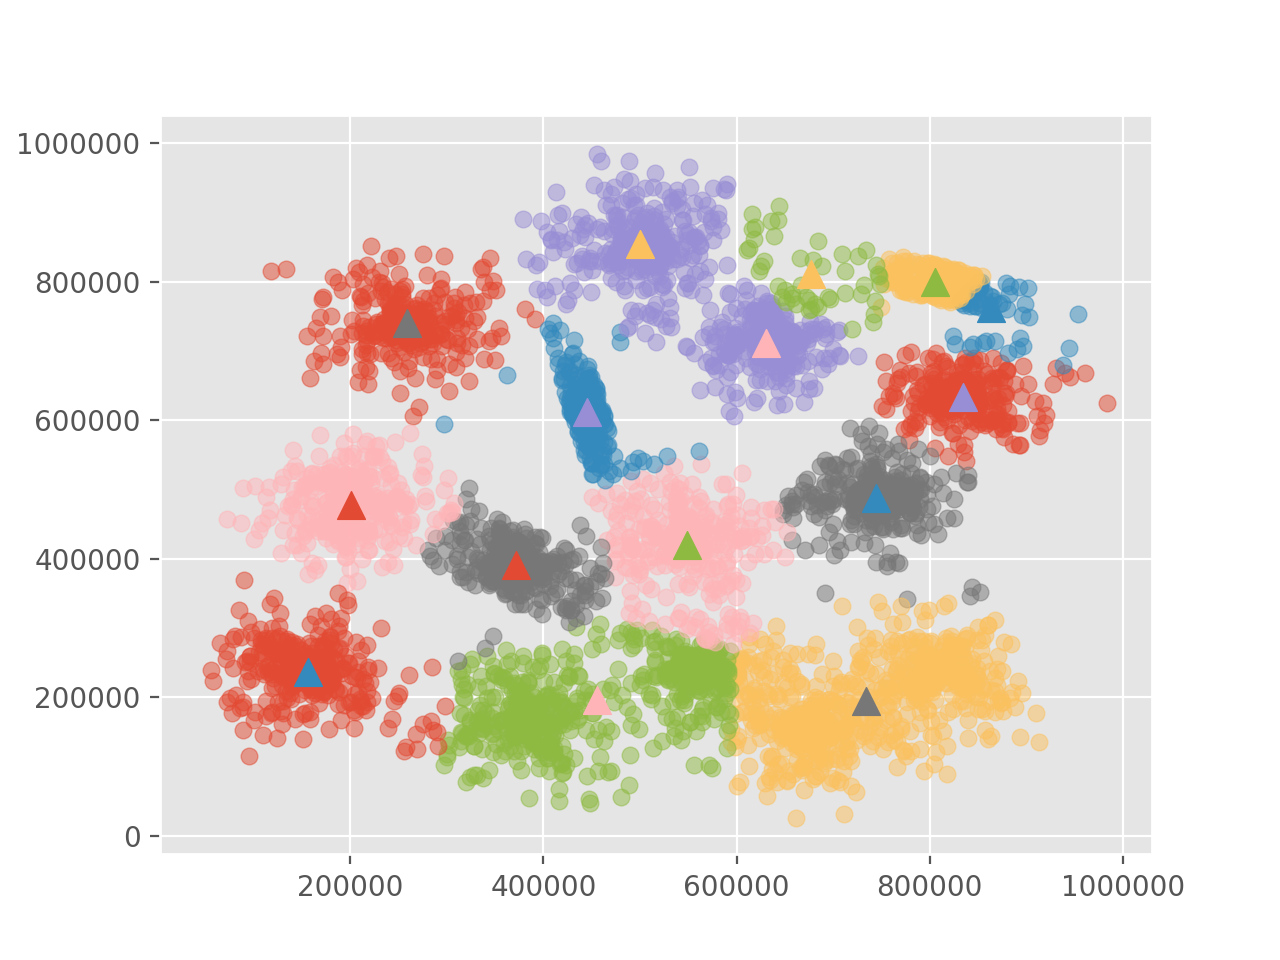
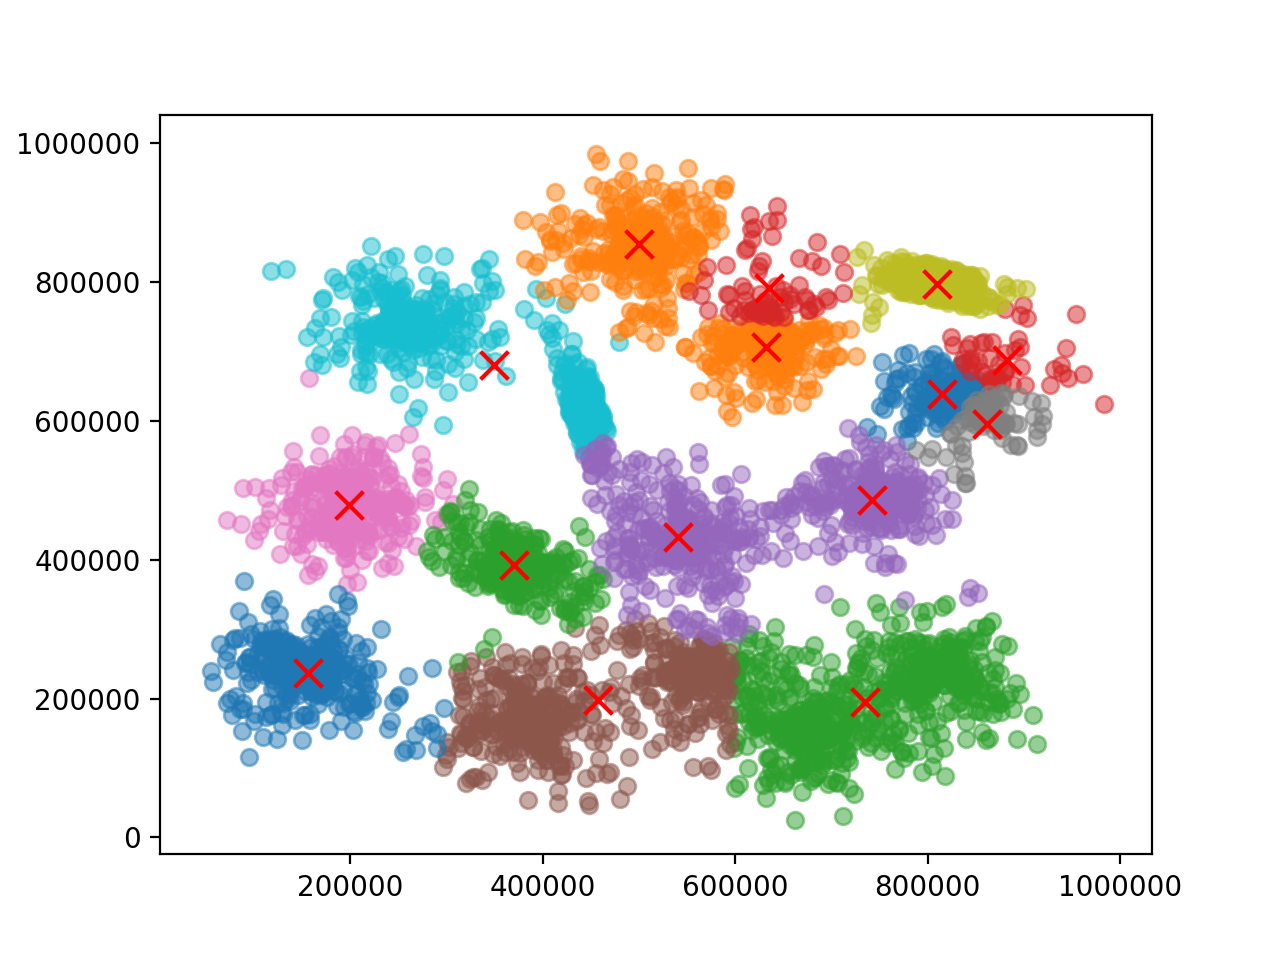
generalized get_distance func to use two args instead of one arg + self, add kmedoids numpy

diff --git a/k_means_numpy.py b/k_means_numpy.py
@@ -42,7 +42,7 @@ class KMeans:
         self.centroids = centroids[:self.k]
         return self
 
-    def get_distance(self, data: np.ndarray) -> np.ndarray:
+    def get_distance(self, centroids: np.ndarray, data: np.ndarray) -> np.ndarray:
         """
         Calculate a distance matrix, `S`, for two arrays so that  `s_ij` = d_ij` represents
         either the Euclidean or Manhattan distance from point `x_i` to centroid_j.
@@ -54,14 +54,14 @@ class KMeans:
         cluster columns.
         """
         choose_method = {'euclidean': 2, 'manhattan': 1}
-        dist = np.zeros((data.shape[0], self.centroids.shape[0]))
-        for centroid in range(self.centroids.shape[0]):
+        dist = np.zeros((data.shape[0], centroids.shape[0]))
+        for centroid in range(centroids.shape[0]):
             for point in range(data.shape[0]):
-                dist[point, centroid] = np.linalg.norm(data[point, :] - self.centroids[centroid, :],
+                dist[point, centroid] = np.linalg.norm(data[point, :] - centroids[centroid, :],
                                                        ord=choose_method[self.method])
         return dist
 
-    def get_distance_vec(self, data: np.ndarray) -> np.ndarray:
+    def get_distance_vec(self, centroids: np.ndarray, data: np.ndarray) -> np.ndarray:
         """
         Calculate a distance matrix, `S`, for two arrays so that  `s_ij` = d_ij` represents
         either the Euclidean or Manhattan distance from point `x_i` to centroid_j.
@@ -77,8 +77,8 @@ class KMeans:
         allowing for for mathematical operations that reduce the number of matrix dims.
         """
         if self.method == 'manhattan':
-            return np.abs(self.centroids - data[:, np.newaxis, :]).sum(axis=2)
-        return np.sqrt(((self.centroids - data[:, np.newaxis, :]) ** 2).sum(axis=2))
+            return np.abs(centroids - data[:, np.newaxis, :]).sum(axis=2)
+        return np.sqrt(((centroids - data[:, np.newaxis, :]) ** 2).sum(axis=2))
 
     def assign_cluster(self, data: np.ndarray) -> "KMeans":
         """
@@ -88,7 +88,7 @@ class KMeans:
         The `np.argmin()` function will select minimum distance across columns, assigning it to
         cluster=column-index.
         """
-        self.clusters = np.argmin(self.get_distance(data), axis=1)
+        self.clusters = np.argmin(self.get_distance(self.centroids, data), axis=1)
         return self
 
     def assign_cluster_vec(self, data: np.ndarray) -> "KMeans":
@@ -99,7 +99,7 @@ class KMeans:
         The `np.argmin()` function will select minimum distance across columns, assigning it to
         cluster=column-index.
         """
-        self.clusters = np.argmin(self.get_distance_vec(data), axis=1)
+        self.clusters = np.argmin(self.get_distance_vec(self.centroids, data), axis=1)
         return self
 
     def update_centroids(self, data: np.ndarray) -> Tuple[np.ndarray, np.ndarray]:
@@ -115,7 +115,7 @@ class KMeans:
         new_centroids = self.centroids.copy()
         return old_centroids, new_centroids
 
-    def within_cluster(self, data):
+    def within_cluster(self, centroids: np.ndarray, data: np.ndarray) -> float:
         """
         Calculates within cluster sum of distances using a distance matrix as described in
         the `get_distance_vec()` method.
@@ -131,9 +131,9 @@ class KMeans:
 
         Then WCSS(S) == 0.2 + 0.1 + 0.2 == 0.5.
         """
-        return sum(np.amin(self.get_distance_vec(data), axis=1))
+        return sum(np.amin(self.get_distance_vec(centroids, data), axis=1))
 
-    def meets_tolerance(self, old_centroids, new_centroids):
+    def meets_tolerance(self, old_centroids: np.ndarray, new_centroids: np.ndarray) -> bool:
         """Function to detect convergence"""
         return np.linalg.norm(old_centroids - new_centroids) <= self.tol
 
@@ -154,12 +154,12 @@ class KMeans:
             self.assign_cluster_vec(data)
             old_centroids, new_centroids = self.update_centroids(data)
             if self.meets_tolerance(old_centroids, new_centroids):
-                self.wcss = self.within_cluster(data)
+                self.wcss = self.within_cluster(self.centroids, data)
                 self.assignments = np.append(self.clusters.reshape(-1, 1), data, axis=1)
                 print(f'Converged in {i-1} iterations.  WCSS: {self.wcss}')
                 break
             if verbose:
-                print(f'Iteration: {i}, WCSS: {self.within_cluster(data)}')
+                print(f'Iteration: {i}, WCSS: {self.within_cluster(self.centroids, data)}')
             i += 1
         return self
 

diff --git a/k_medoids_numpy.py b/k_medoids_numpy.py
@@ -1,0 +1,60 @@
+"""
+A Numpy K-Medoids implementation
+
+Methodology for the K-Medoids algorithm:
+
+    Choose value for K
+    Randomly select K featuresets to start as your centroids
+    Calculate distance of all other featuresets to centroids
+    Classify other featuresets as same as closest centroid
+    Determine point within centroid that minimizes within-cluster distance function, making that
+    the new centroid
+    Repeat steps 3-5 until optimized (centroids no longer moving)
+"""
+from typing import Tuple
+
+import matplotlib.pyplot as plt
+import numpy as np
+
+from k_means.make_clusters import SAMPLE_DATA
+from k_means.k_means_numpy import KMeans
+
+
+class KMedoids(KMeans):
+    def __init__(self, k: int = 2, tol: float = 0.001, max_iter: int = 300,
+                 method: str = 'euclidean'):
+        super().__init__(k, tol, max_iter, method)
+
+    def update_centroids(self, data: np.ndarray) -> Tuple[np.ndarray, np.ndarray]:
+        old_centroids = self.centroids.copy()
+        for cluster in range(self.k):
+            in_cluster = np.where(self.clusters == cluster)
+            distance_matrix = self.get_distance_vec(data[in_cluster], data[in_cluster]).sum(axis=0)
+            min_wcss = np.argmin(distance_matrix)
+            self.centroids[cluster, :] = data[in_cluster][min_wcss]
+        new_centroids = self.centroids.copy()
+        return old_centroids, new_centroids
+
+    # def within_cluster(self, centroids, data) -> float:
+    #     pass
+
+    def plot(self) -> None:
+        """Plot clusters and circles medoid in red"""
+        for cluster in range(self.k):
+            cluster_filter = self.assignments[:, 0] == cluster
+            plt.scatter(self.assignments[cluster_filter, 1],
+                        self.assignments[cluster_filter, 2],
+                        alpha=0.5)
+        for point in self.centroids:
+            plt.scatter(point[0], point[1], marker='o', edgecolors='r', facecolors='none')
+        plt.show()
+
+
+def main():
+    """Main function"""
+    kmedoids = KMedoids(k=3)
+    kmedoids.fit(SAMPLE_DATA).plot()
+
+
+if __name__ == '__main__':
+    main()

diff --git a/k_medoids_cluster.py b/k_medoids_cluster.py
@@ -13,6 +13,7 @@ Methodology for the K-Medoids algorithm:
 """
 from typing import Dict, List, Tuple, Union
 
+import matplotlib.pyplot as plt
 import numpy as np
 from pandas import DataFrame
 
@@ -58,6 +59,14 @@ class KMedoidsCluster(KMeansCluster):
                           if distance == min(mediod_distances.values())]
             self.centroids[cluster] = new_medoid[0]
         return self
+
+    def plot(self) -> None:
+        """Plot clusters and centroids"""
+        for cluster in self.clusters.values():
+            plt.scatter(np.array(cluster)[:, 0], np.array(cluster)[:, 1], alpha=0.5)
+        for point in self.centroids.values():
+            plt.scatter(point[0], point[1], marker='o', edgecolors='r', facecolors='none')
+        plt.show()
 
 
 def main():

diff --git a/k_means_cluster.py b/k_means_cluster.py
@@ -65,7 +65,7 @@ class KMeansCluster:
             dist = cityblock(arr_1, arr_2)
         else:
             dist = np.linalg.norm(arr_1 - arr_2)
-        return dist ** 2
+        return dist
 
     @staticmethod
     def find_min_idx(distances: List) -> int:
